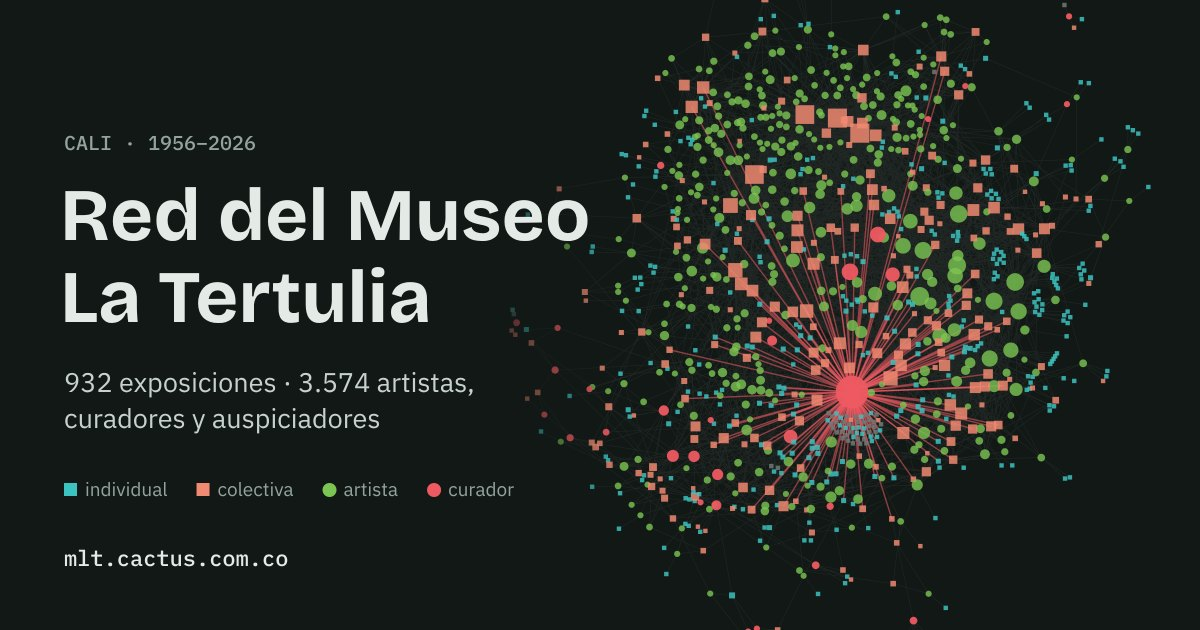
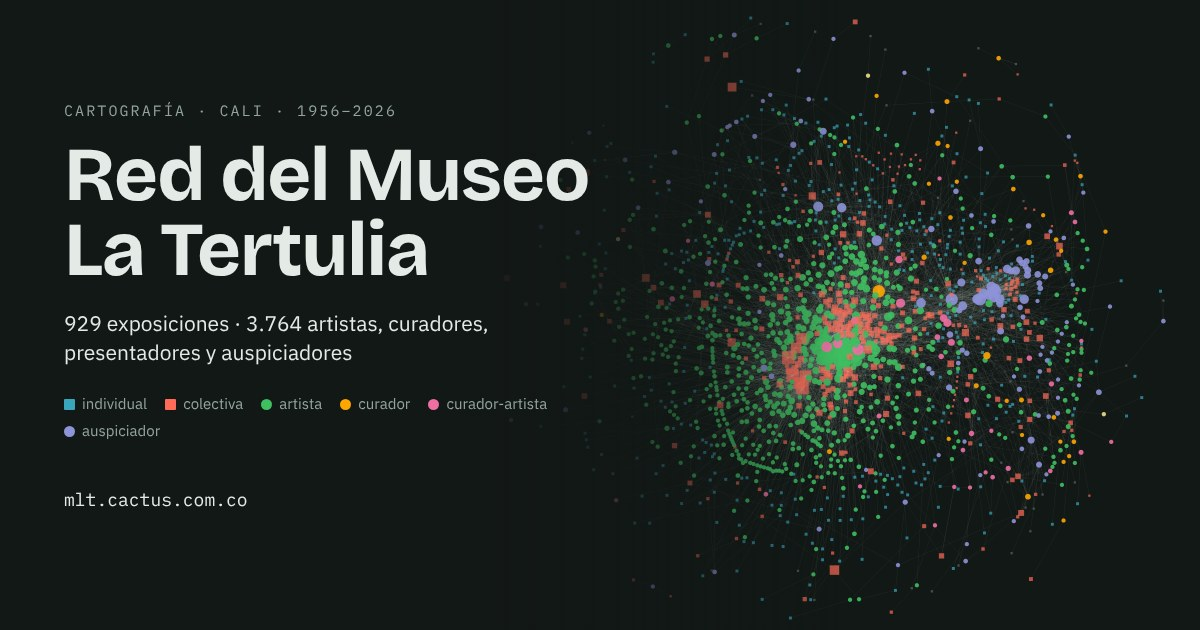
og-image con cifras actuales y paleta de la Cartografía
Claude-Session: https://claude.ai/code/session_01EpRdQkKLicueuiH9KL7GhM

diff --git a/scripts/og/og.html b/scripts/og/og.html
@@ -1,0 +1,41 @@
+<!doctype html><html><head><meta charset="utf-8"><style>
+@font-face{font-family:BG;src:url(node_modules/@fontsource/bricolage-grotesque/files/bricolage-grotesque-latin-700-normal.woff2);font-weight:700}
+@font-face{font-family:PS;src:url(node_modules/@fontsource/ibm-plex-sans/files/ibm-plex-sans-latin-400-normal.woff2)}
+@font-face{font-family:PM;src:url(node_modules/@fontsource/ibm-plex-mono/files/ibm-plex-mono-latin-400-normal.woff2)}
+html,body{margin:0;width:1200px;height:630px;background:#121816;overflow:hidden}
+canvas{position:absolute;inset:0}
+.t{position:absolute;left:64px;top:0;bottom:0;width:560px;display:flex;flex-direction:column;justify-content:center;color:#e4ebe7}
+.e{font:15px PM;letter-spacing:.14em;text-transform:uppercase;color:#93a39e;margin:0 0 18px}
+h1{font:700 76px/0.98 BG;letter-spacing:-.02em;margin:0 0 22px}
+.n{font:21px/1.4 PS;margin:0 0 26px;color:#e4ebe7}
+.l{display:flex;flex-wrap:wrap;gap:8px 18px;font:15px PS;color:#93a39e;margin:0 0 30px;max-width:520px}
+.l i{display:inline-block;width:11px;height:11px;border-radius:50%;margin-right:7px;vertical-align:-1px}.l i.s{border-radius:1px}
+.u{font:18px PM;color:#e4ebe7}
+.g{position:absolute;inset:0;background:linear-gradient(90deg,#121816 0%,#121816 38%,rgba(18,24,22,.75) 52%,rgba(18,24,22,0) 70%)}
+</style></head><body><canvas id="c" width="2400" height="1260" style="width:1200px;height:630px"></canvas><div class="g"></div>
+<div class="t"><p class="e">Cartografía · Cali · 1956–2026</p><h1>Red del Museo<br>La Tertulia</h1>
+<p class="n" id="n"></p>
+<p class="l"><span><i class="s" style="background:#3aa6bd"></i>individual</span><span><i class="s" style="background:#ff6b59"></i>colectiva</span><span><i style="background:#3fbf62"></i>artista</span><span><i style="background:#ffa600"></i>curador</span><span><i style="background:#ef6fa3"></i>curador-artista</span><span><i style="background:#8e94d8"></i>auspiciador</span></p>
+<p class="u">mlt.cactus.com.co</p></div>
+<script src="/home/claude/mlt/node_modules/d3/dist/d3.min.js"></script><script src="data.js"></script>
+<script>
+((D)=>{
+const N=D.n,E=D.e,isEx=i=>N[i][2]===0,nx=new Map(),role=new Map();
+const fmt=v=>v.toLocaleString('es-CO');
+document.getElementById('n').textContent=fmt(N.filter((n,i)=>isEx(i)).length)+' exposiciones · '+fmt(N.length-N.filter((n,i)=>isEx(i)).length)+' artistas, curadores, presentadores y auspiciadores';
+E.forEach(([s,t,r])=>{nx.set(t,(nx.get(t)||new Set()).add(s));const R=role.get(t)||[0,0,0,0];R[r]++;role.set(t,R)});
+const ids=new Set(),L=[];E.forEach(([s,t,r])=>{if(nx.get(t).size<2)return;ids.add(s);ids.add(t);L.push({source:s,target:t})});
+const rnd=d3.randomLcg(.31),nodes=[...ids].map(i=>({id:i,x:(rnd()-.5)*400,y:(rnd()-.5)*400})),m=new Map(nodes.map(o=>[o.id,o]));
+const links=L.map(l=>({source:m.get(l.source),target:m.get(l.target)}));
+const sim=d3.forceSimulation(nodes).randomSource(rnd).force('link',d3.forceLink(links).distance(16).strength(.35)).force('charge',d3.forceManyBody().strength(-10).distanceMax(240)).force('x',d3.forceX(0).strength(.06)).force('y',d3.forceY(0).strength(.06)).stop();
+for(let i=0;i<400;i++)sim.tick();
+const c=document.getElementById('c').getContext('2d');c.scale(2,2);
+const xs=d3.extent(nodes,o=>o.x),ys=d3.extent(nodes,o=>o.y),k=Math.min(700/(xs[1]-xs[0]),600/(ys[1]-ys[0]));
+c.translate(830,318);c.scale(k,k);c.translate(-(xs[0]+xs[1])/2,-(ys[0]+ys[1])/2);
+c.lineWidth=.5/k;c.strokeStyle='rgba(228,235,231,.07)';c.beginPath();links.forEach(l=>{c.moveTo(l.source.x,l.source.y);c.lineTo(l.target.x,l.target.y)});c.stroke();
+const MOD=['#3aa6bd','#ff6b59','#5b6662'],ROL=['#3fbf62','#ffa600','#ece08c','#8e94d8'];
+nodes.forEach(o=>{const i=o.id,n=N[i];let col,r;if(isEx(i)){col=MOD[n[7]];const a=E.filter(e=>e[0]===i&&e[2]===0).length;r=1.1+Math.sqrt(a)*.32}
+ else{const R=role.get(i);const art=R[0]>0;col=(R[1]||R[2])&&art?'#ef6fa3':R[1]?ROL[1]:R[2]?ROL[2]:R[0]?ROL[0]:ROL[3];r=1.2+Math.sqrt(Math.min(nx.get(i).size,60))*.6}
+ c.globalAlpha=isEx(i)?.7:.9;c.fillStyle=col;c.beginPath();if(isEx(i))c.rect(o.x-r,o.y-r,2*r,2*r);else c.arc(o.x,o.y,r,0,7);c.fill()});
+document.title='listo'})(window.DD);
+</script></body></html>

diff --git a/scripts/og/shot.js b/scripts/og/shot.js
@@ -1,0 +1,4 @@
+const {chromium}=require('playwright');
+(async()=>{const b=await chromium.launch({args:['--allow-file-access-from-files']});const p=await b.newPage({viewport:{width:1200,height:630}});p.on('pageerror',e=>console.log(e.message));
+await p.goto('file:///home/claude/og/og.html');await p.waitForFunction(()=>document.title==='listo',null,{timeout:60000});await p.waitForTimeout(500);
+await p.screenshot({path:'/home/claude/og/og-image.png'});await b.close()})();
